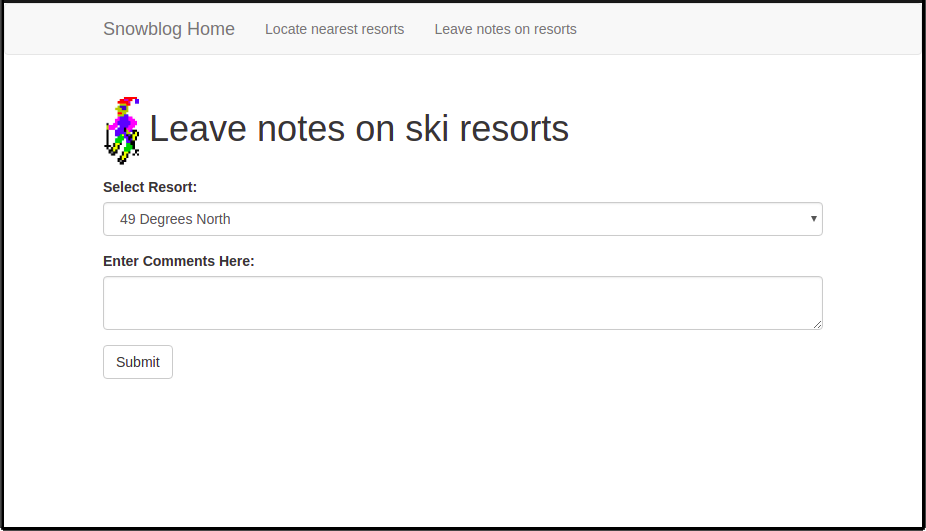
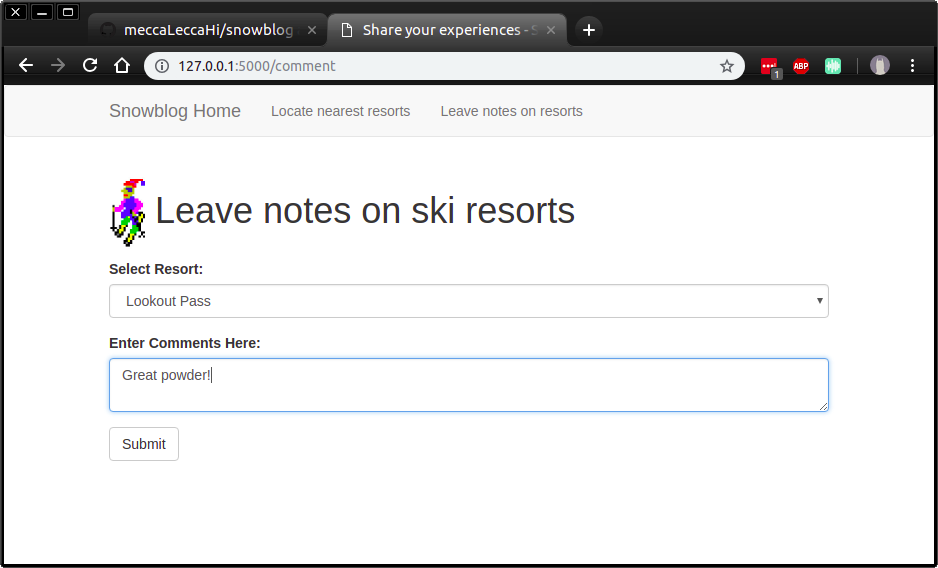
restored to stable version

diff --git a/migrations/versions/b35246be71b2_resort_table.py b/migrations/versions/b35246be71b2_resort_table.py
@@ -1,8 +1,8 @@
-"""empty message
+"""resort table
 
-Revision ID: 7eef0f0f7451
+Revision ID: b35246be71b2
 Revises: 
-Create Date: 2018-11-08 20:58:07.010079
+Create Date: 2018-11-05 18:08:11.718878
 
 """
 from alembic import op
@@ -10,7 +10,7 @@ import sqlalchemy as sa
 
 
 # revision identifiers, used by Alembic.
-revision = '7eef0f0f7451'
+revision = 'b35246be71b2'
 down_revision = None
 branch_labels = None
 depends_on = None
@@ -24,7 +24,7 @@ def upgrade():
     sa.Column('resortname', sa.String(length=64), nullable=True),
     sa.PrimaryKeyConstraint('id')
     )
-    op.create_index(op.f('ix_post_resortname'), 'post', ['resortname'], unique=False)
+    op.create_index(op.f('ix_post_resortname'), 'post', ['resortname'], unique=True)
     op.create_table('resort',
     sa.Column('id', sa.Integer(), nullable=False),
     sa.Column('resortname', sa.String(length=64), nullable=True),
@@ -34,7 +34,7 @@ def upgrade():
     sa.Column('url', sa.String(length=128), nullable=True),
     sa.PrimaryKeyConstraint('id')
     )
-    op.create_index(op.f('ix_resort_resortname'), 'resort', ['resortname'], unique=False)
+    op.create_index(op.f('ix_resort_resortname'), 'resort', ['resortname'], unique=True)
     # ### end Alembic commands ###
 
 

diff --git a/app/forms.py b/app/forms.py
@@ -1,7 +1,7 @@
 from flask_wtf import FlaskForm
 from wtforms import SelectField, StringField, TextAreaField, SubmitField
 from wtforms.validators import DataRequired
-#from app.models import Resort
+from app.models import Resort
 
 # Define class for location form
 class LocateForm(FlaskForm):
@@ -13,8 +13,8 @@ class LocateForm(FlaskForm):
 # Define class for comment form
 class CommentForm(FlaskForm):
 	# Refine choices for drop-down menu from db
-	#choices = [(r.resortname, r.resortname) for r in Resort.query.order_by('resortname').all()]
-	choices=[('Aspen', 'Aspen'), ('Alyeska', 'Alyeska'), ('Arizona Snow Bowl', 'Arizona Snow Bowl')]
+	choices = [(r.resortname, r.resortname) for r in Resort.query.order_by('resortname').all()]
+	#choices=[('Aspen', 'Aspen'), ('Alyeska', 'Alyeska'), ('Arizona Snow Bowl', 'Arizona Snow Bowl')]
 	# Create drop-down menu
 	comment_resort = SelectField('Select Resort:', choices=choices)
 	# Create comment field

diff --git a/app/routes.py b/app/routes.py
@@ -1,7 +1,7 @@
 from flask import render_template, flash, redirect, url_for
 from app import app, db
 from app.forms import LocateForm, CommentForm
-#from app.models import Resort, Post
+from app.models import Resort, Post
 from scipy.spatial import distance
 import googlemaps
 from config import Config
@@ -12,9 +12,9 @@ import numpy as np
 @app.route('/index')
 def index():
 
-	## Get list of all posts
-	#posts = Post.query.all()
-	posts = []
+	# Get list of all posts
+	posts = Post.query.all()
+	#posts = []
 
 	# Render them in webpage
 	return render_template('index.html', title='Home', posts=posts)

diff --git a/README.md b/README.md
@@ -3,7 +3,7 @@
 This app allows Jerry to keep track of his experiences at different ski resorts, and find new ones based on his location input! This is a beginner-friendly example of a simple [Flask](http://flask.pocoo.org/) application, that uses [Bootstrap](http://getbootstrap.com) as the CSS framework. It's designed to help demonstrate the use of Flask, within the context of an introductory Python course. As such, the code in this repo is deliberately simplified and heavily-commented for clarity.
 
 ### Dependencies
-To run, clone this repo, then execute the following commands:
+To run, clone this repo, then execute the following commands (see note below regarding Google API key):
 ```
 $ sudo apt-get -y install python3 python3-venv python3-dev  
 $ python3 -m venv venv  
@@ -15,7 +15,7 @@ $ source venv/bin/activate
 
 ### Data Sources
 - [Open Snow](www.opensnow.com)
-- [Google Gecode](https://developers.google.com/maps/documentation/geocoding/start)
+- [Google Gecode](https://developers.google.com/maps/documentation/geocoding/start)*
 
 
 ### Data Sources
